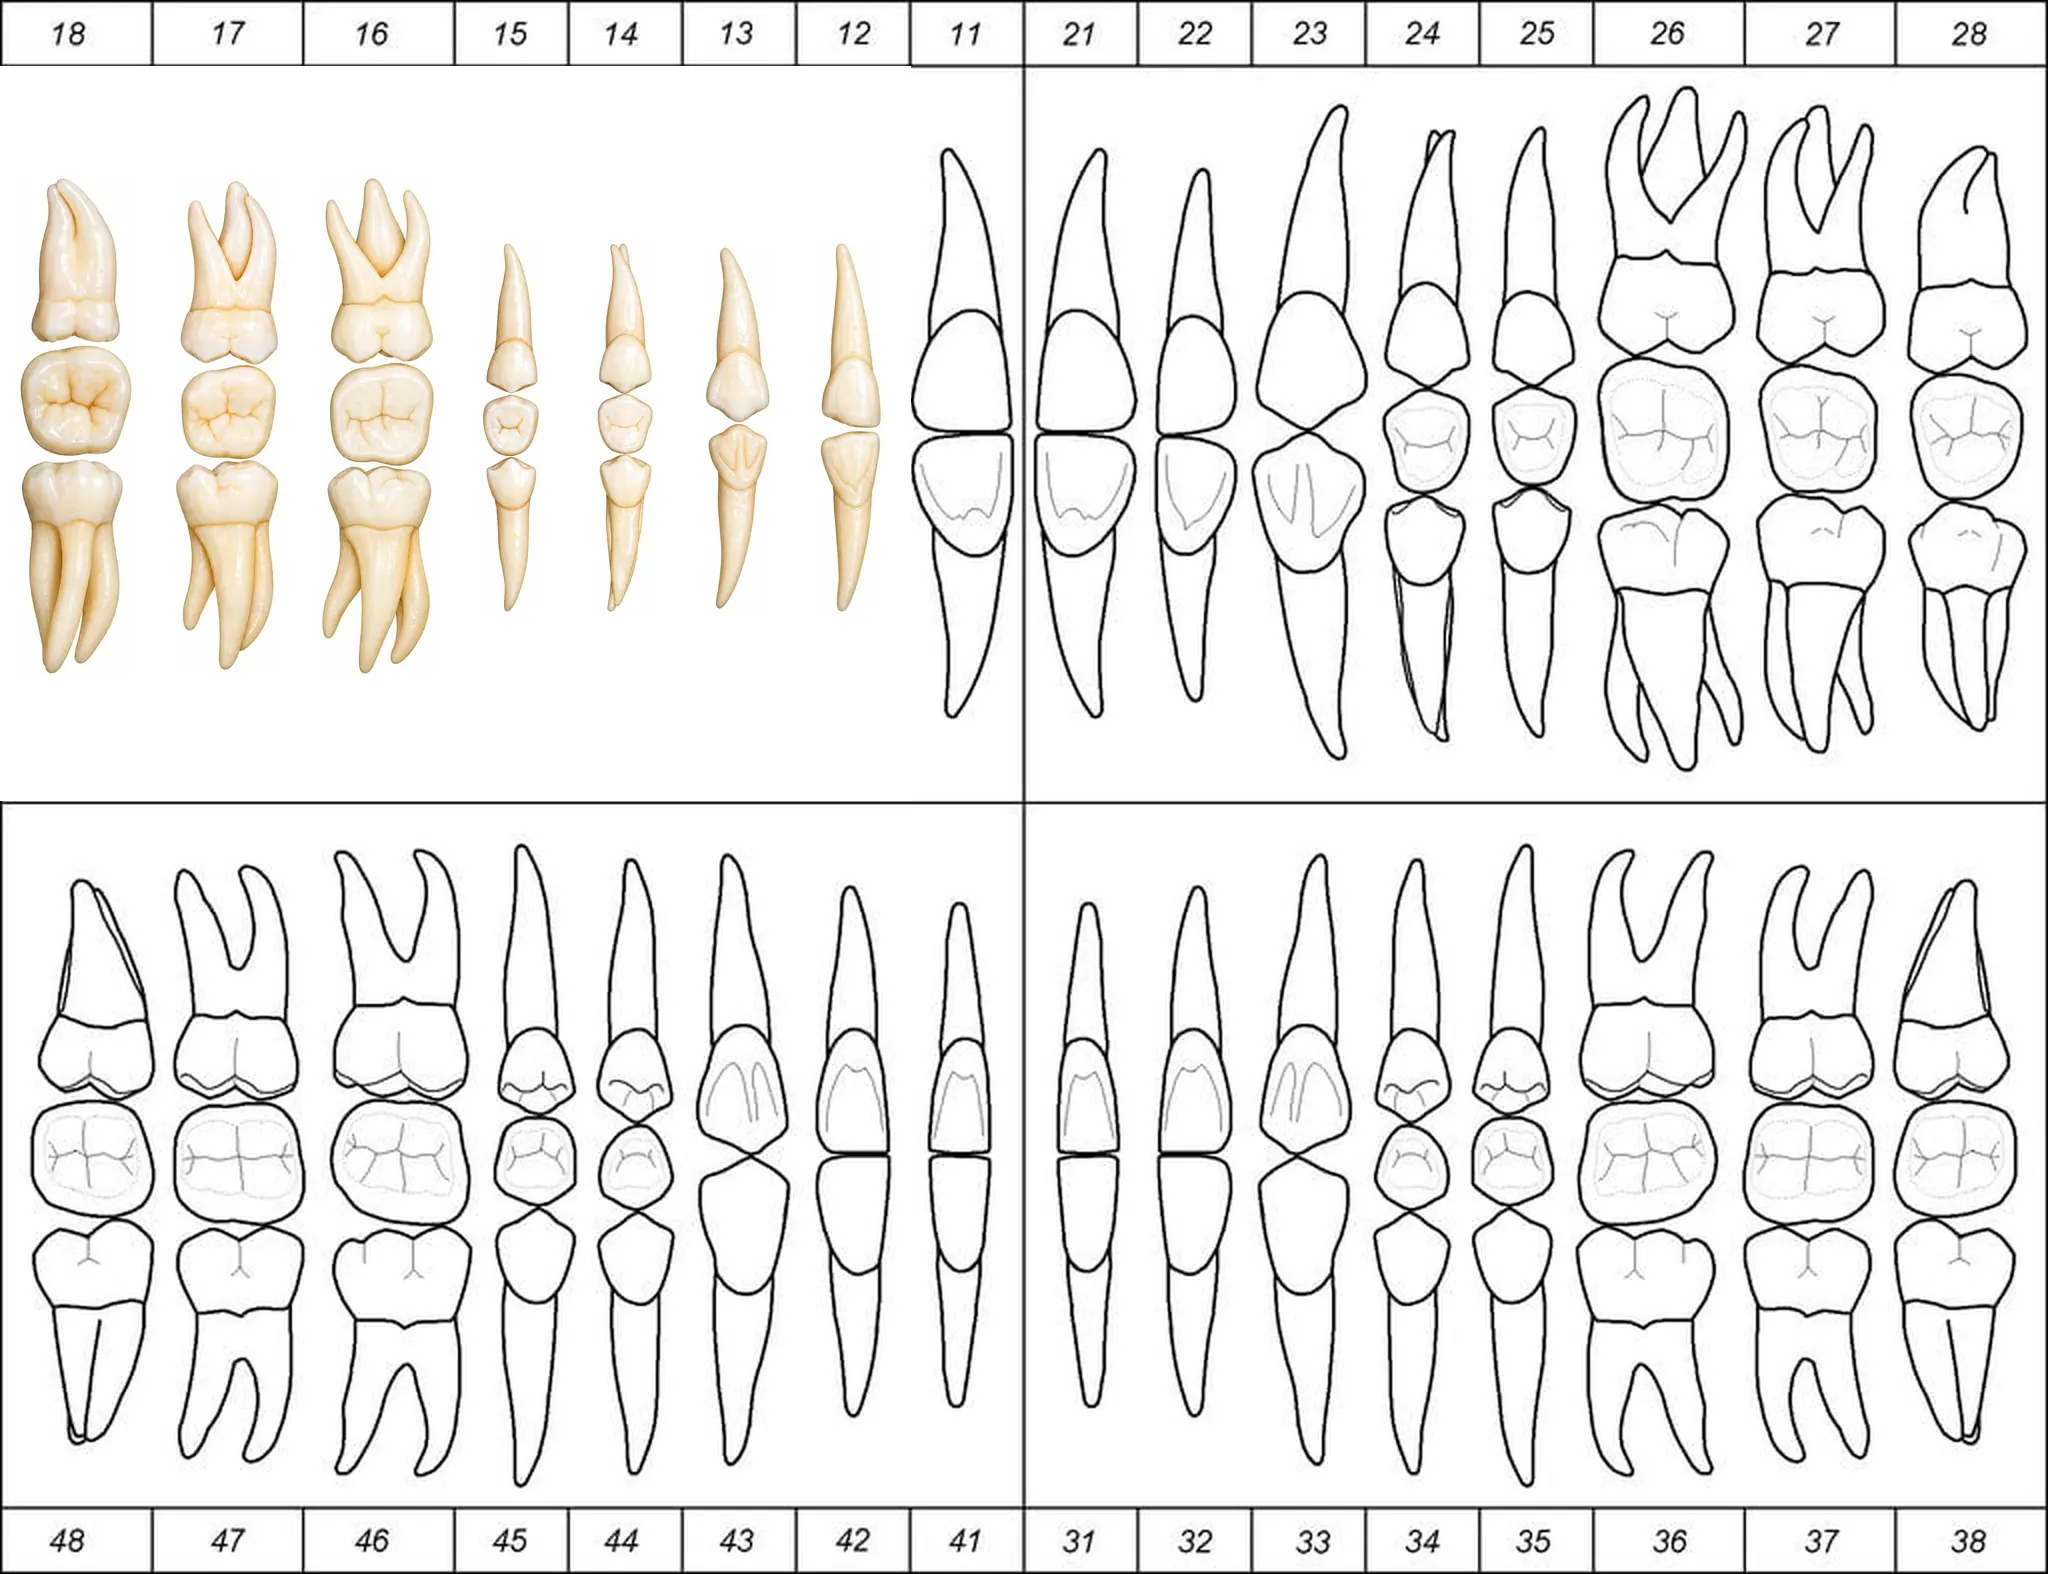
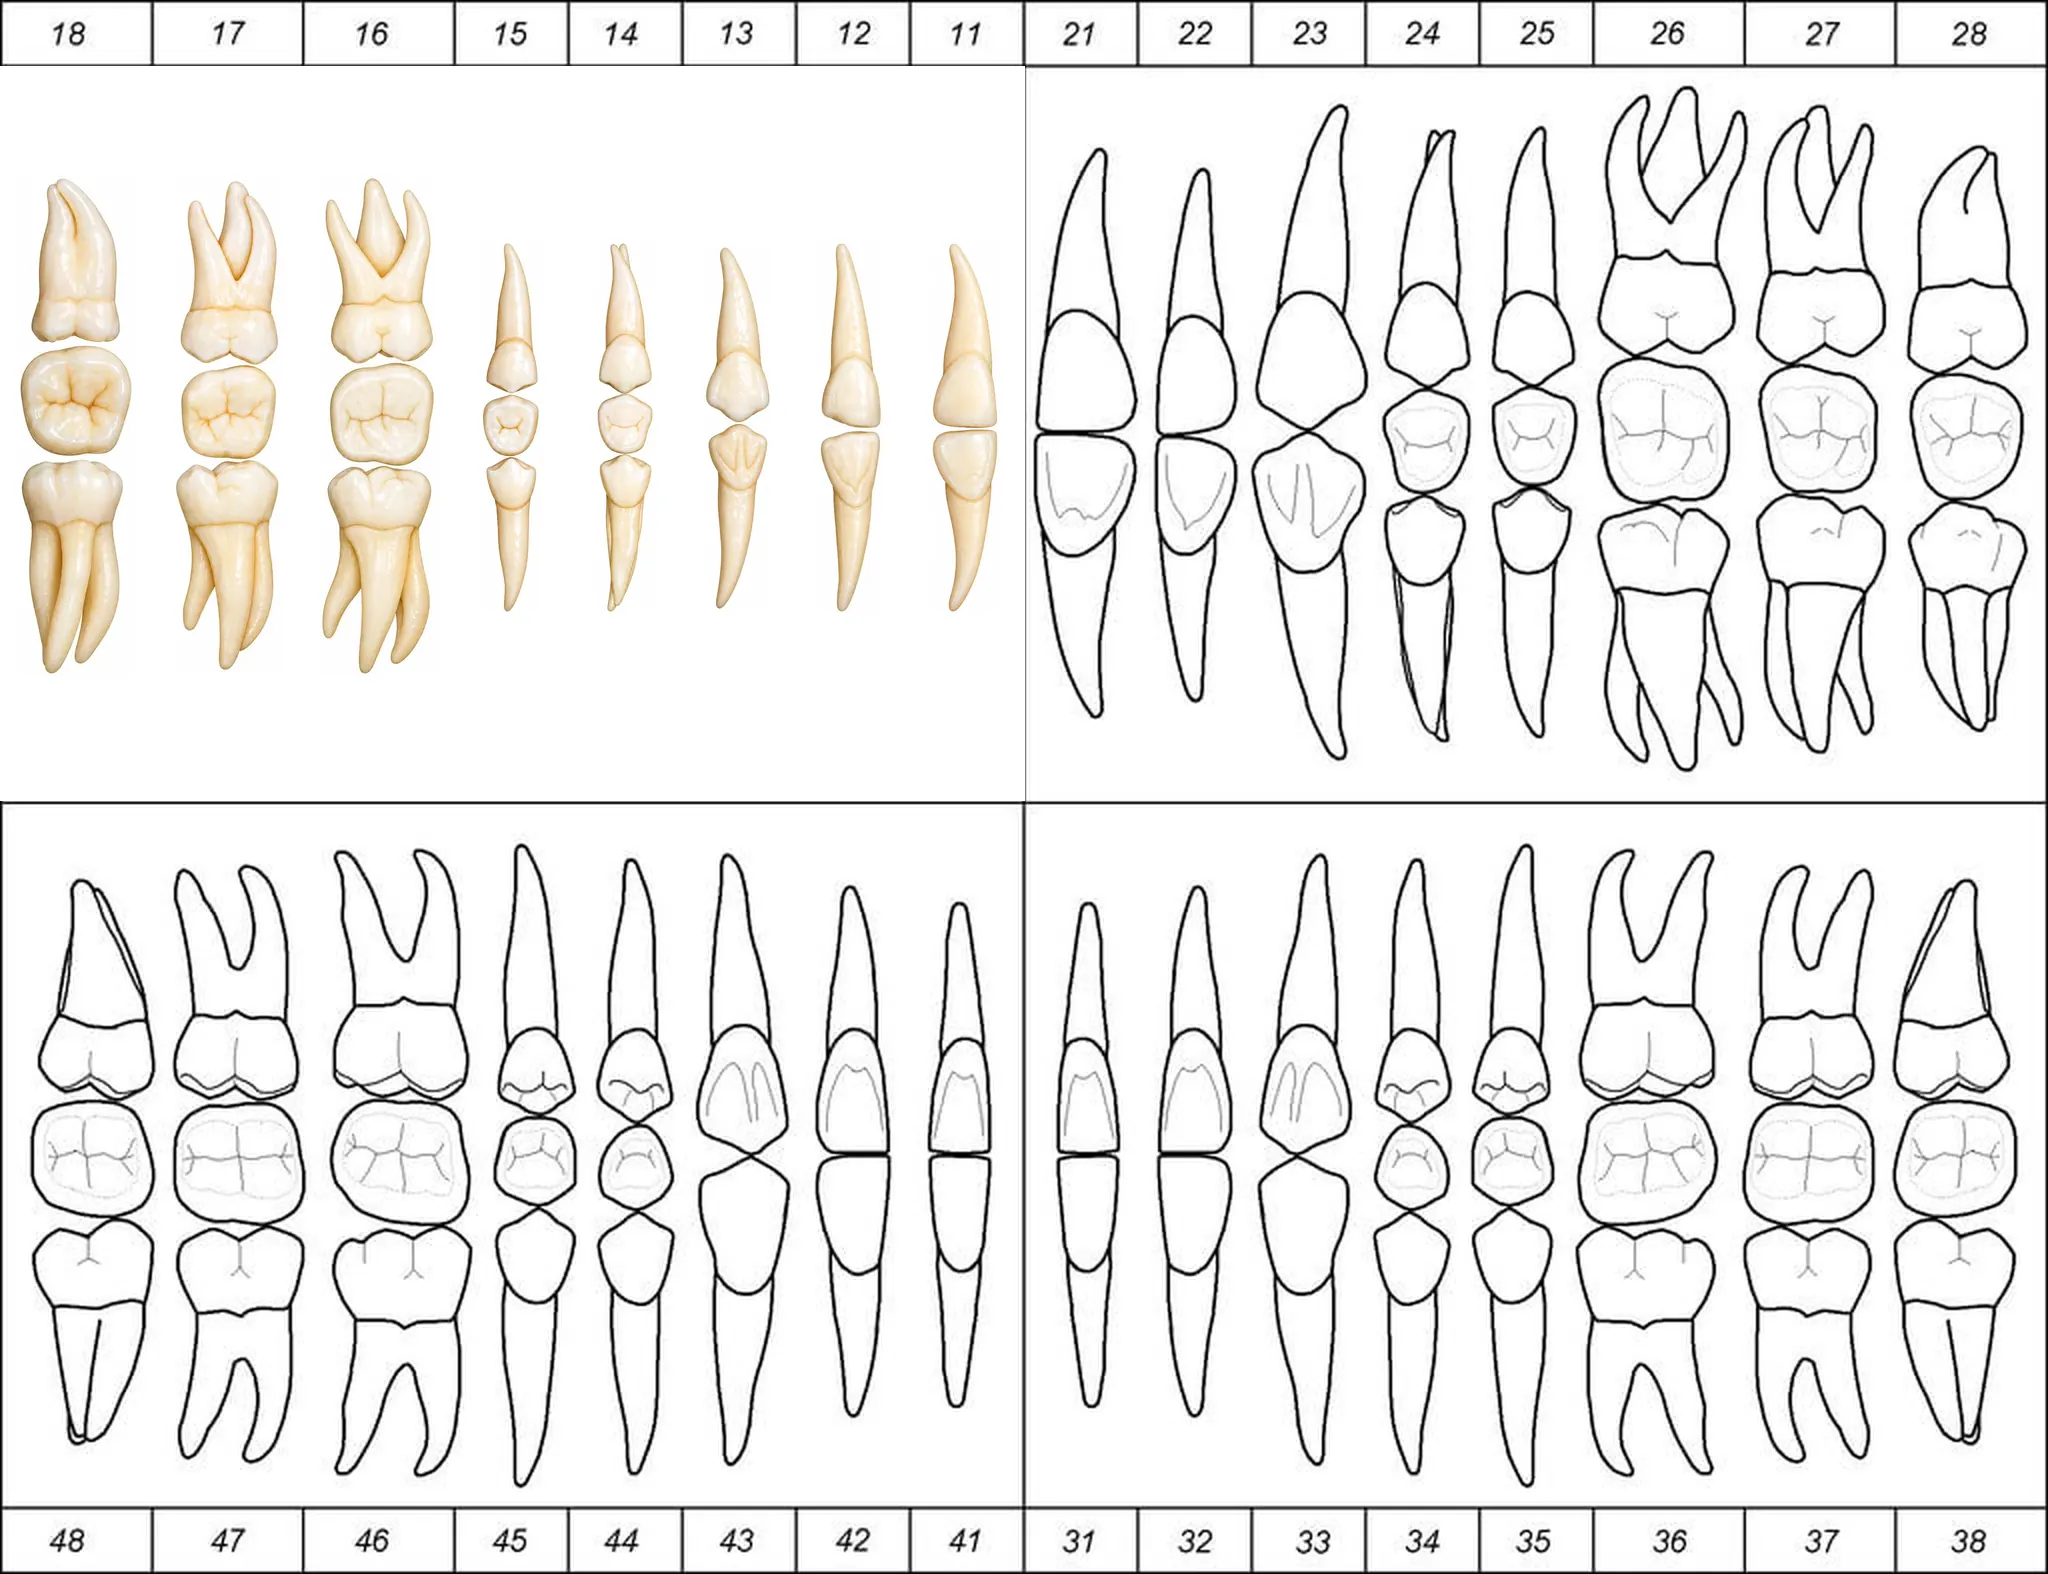
Odontograma: ilustración realista del diente 11
Claude-Session: https://claude.ai/code/session_01FW31h1zo6p8vQyvT2eeDKx

Changed region(s): [[0.4375, 0.0934, 0.5, 0.4358]]

diff --git a/components/OdontogramaDibujo.tsx b/components/OdontogramaDibujo.tsx
@@ -53,7 +53,7 @@ const CARTA_URL = "/odontograma-carta-v2.webp";
 
 // Dientes con ilustración realista propia (public/dientes/N.webp) que
 // sustituye al dibujo de línea de la carta en su columna.
-const DIENTES_REALISTAS = new Set<number>([18, 17, 16, 15, 14, 13, 12]);
+const DIENTES_REALISTAS = new Set<number>([18, 17, 16, 15, 14, 13, 12, 11]);
 
 // Lienzo propio de un diente realista en pantalla completa: las marcas
 // de ese diente se guardan en estas coordenadas (con d = número) y en
